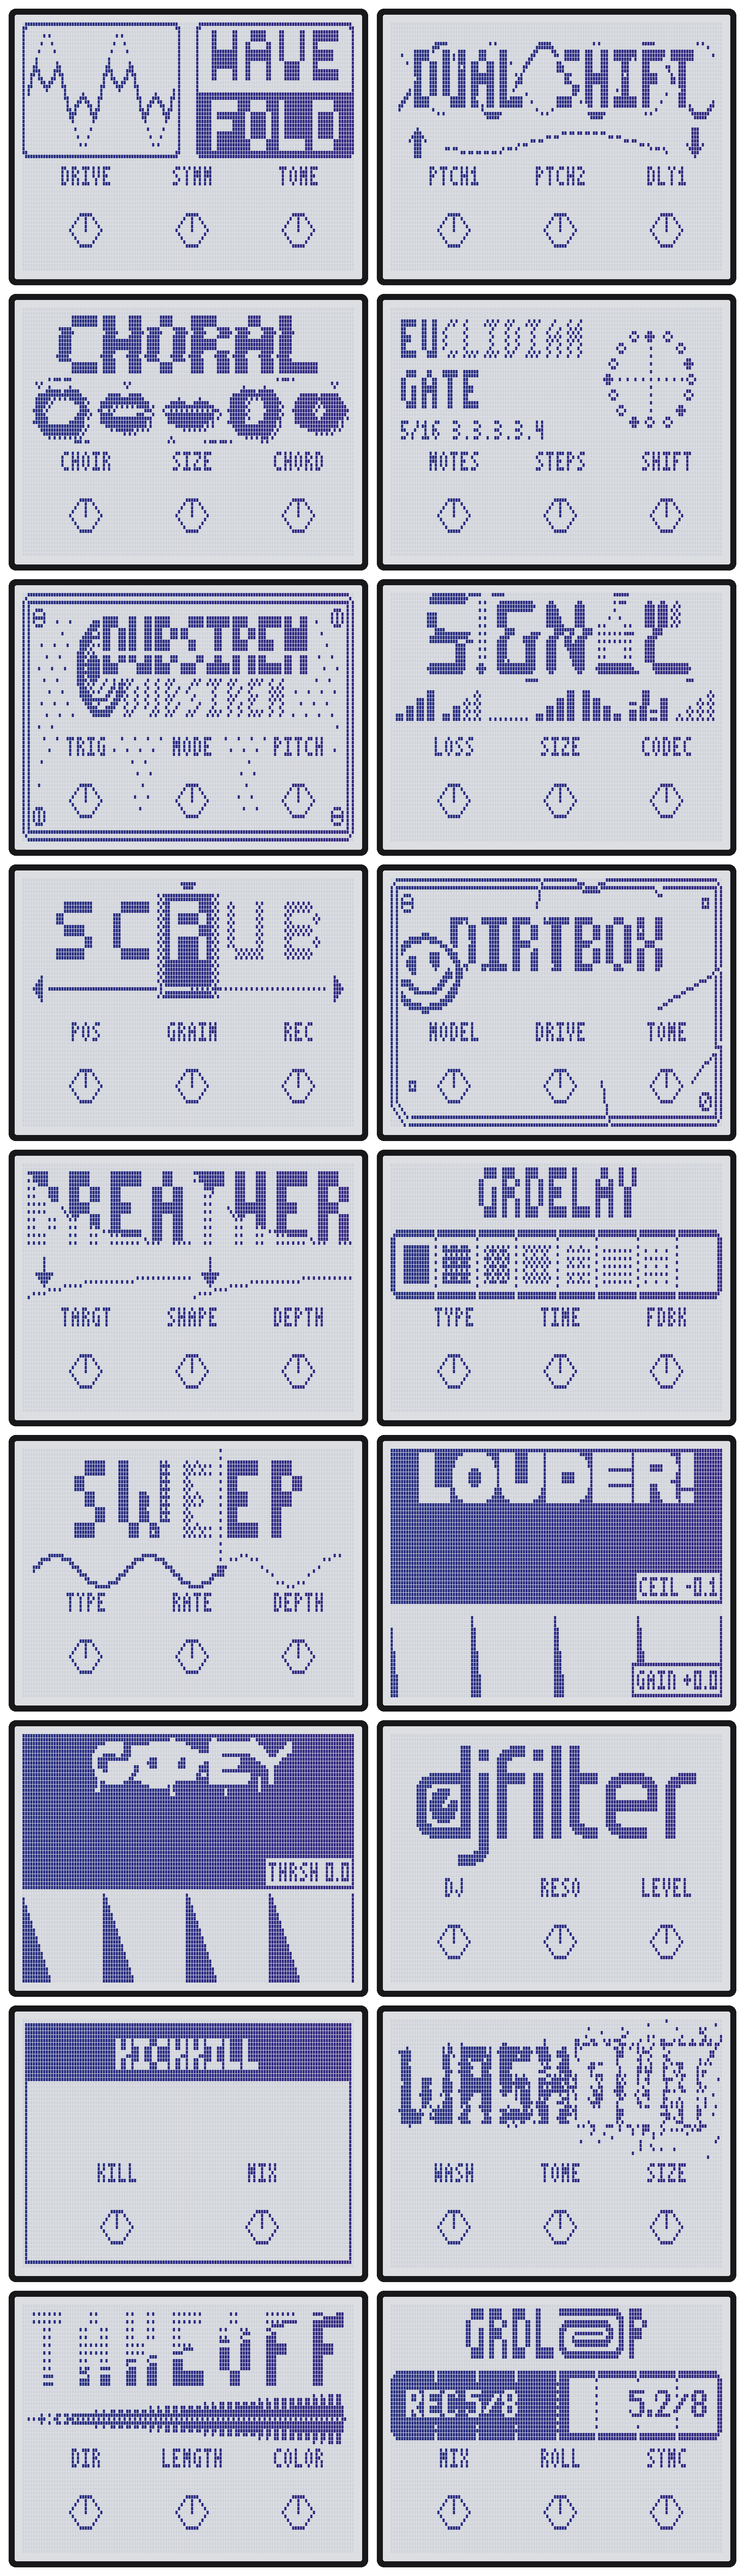
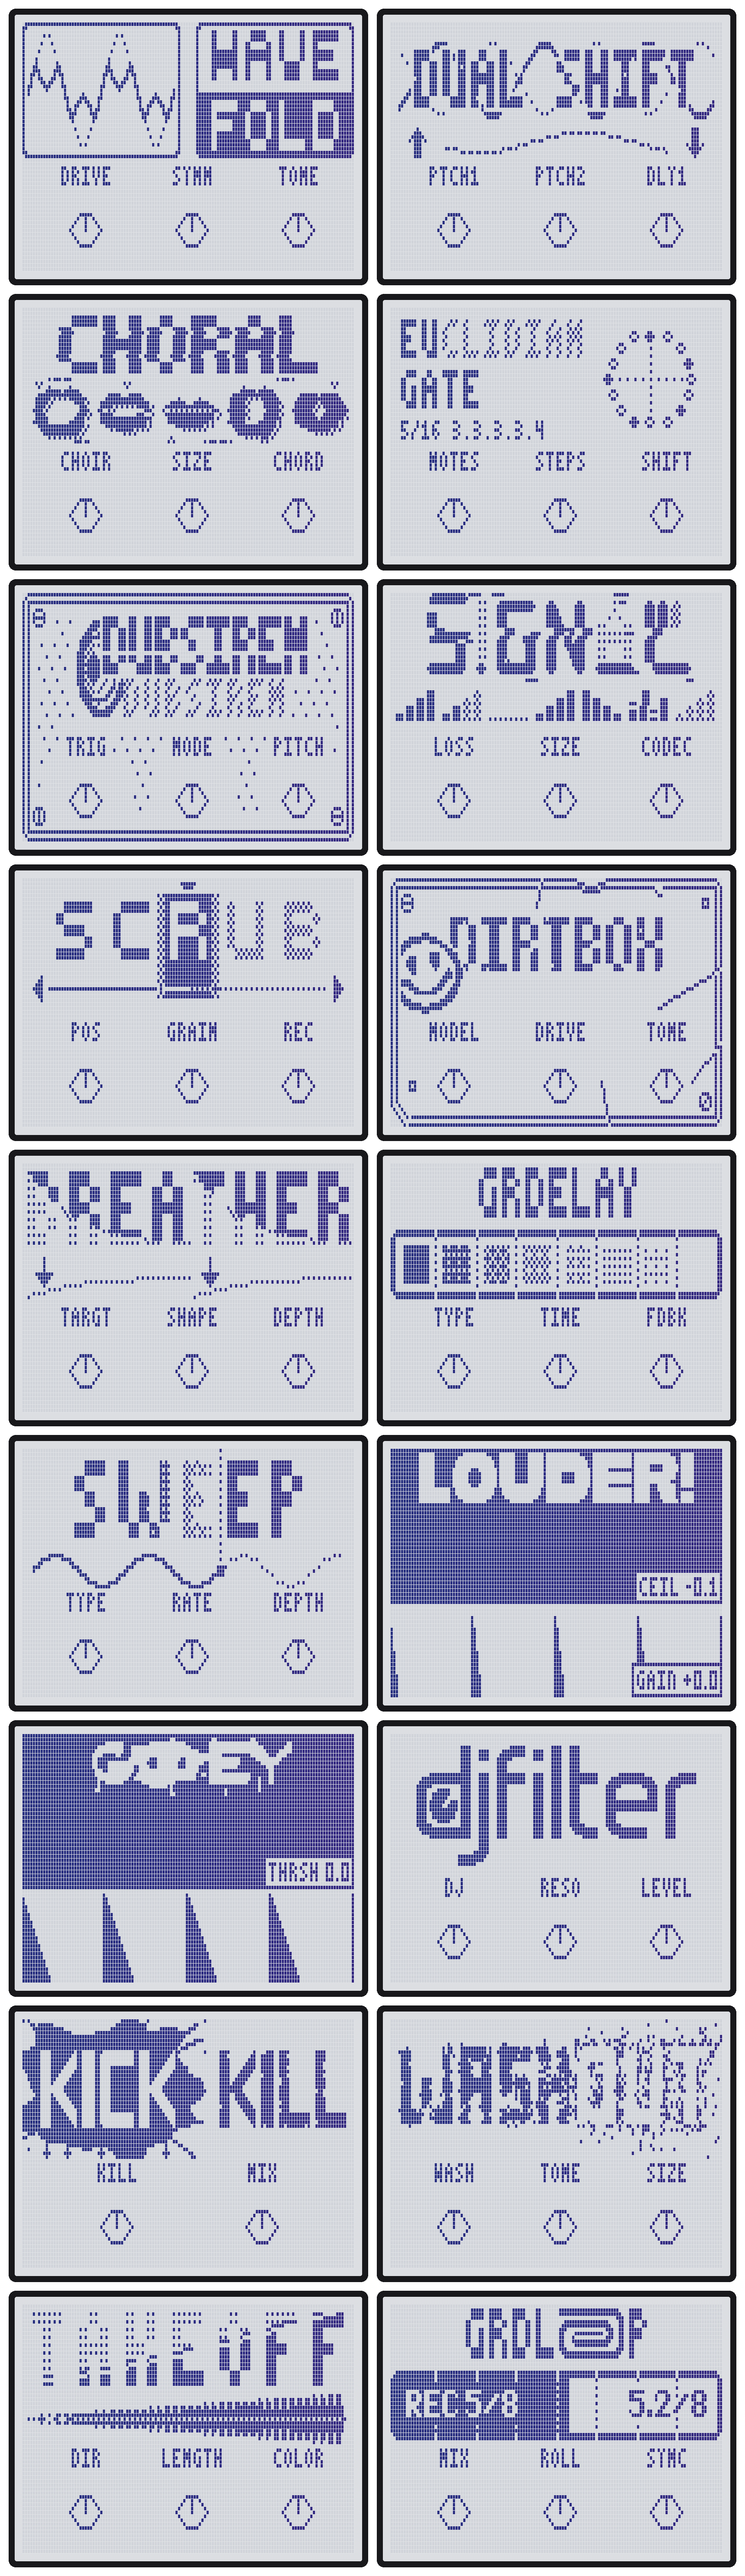
KickKill cover: KICK cut out of a blood splat, KILL in Washout's block letters

Changed region(s): [[0.0307, 0.7802, 0.4919, 0.8426]]

diff --git a/src/custom/kickkill/make_cover.py b/src/custom/kickkill/make_cover.py
@@ -1,0 +1,110 @@
+"""Generate src/airwindows/common/covers/KickKill.json (128x64 cover override).
+
+KICK KILL in Washout's style (the pack's square block font, edges lightly worn): KICK is cut
+out (negative) of a splat of blood with spikes, drips and droplets; KILL solid with worn
+edges. Seeded, so every run draws the same picture. Knob row: custom_covers._draw_knob_row.
+
+Run from anywhere:  py src/custom/kickkill/make_cover.py
+The build (custom_covers.make_cover) picks the JSON up automatically.
+Also writes cover_preview.png next to this script (LCD look, build/lcd_render.py).
+"""
+import json, math, random, sys
+from pathlib import Path
+
+ROOT = Path(__file__).resolve().parents[3]        # src/custom/kickkill/make_cover.py -> repo root
+sys.path.insert(0, str(ROOT / "build"))
+sys.path.insert(0, str(ROOT / "src" / "airwindows" / "common"))
+from screen_image import Canvas
+import custom_covers as cc
+
+NAME = "KickKill"
+LABELS = ['Kill', 'Mix']
+ART_H = 36                                        # rows 0..35; the knob labels start at 37
+TOP, H, ST = 8, 20, 4                             # letter top row, height, stroke
+
+
+def glyph(ch):
+    """Pixels (x, y) of one block letter at the origin; returns (pixels, width)."""
+    p = set()
+    def box(x0, y0, x1, y1):
+        p.update((x, y) for x in range(x0, x1 + 1) for y in range(y0, y1 + 1))
+    if ch == 'I':
+        box(0, 0, ST, H - 1); return p, ST + 1
+    if ch == 'L':
+        box(0, 0, ST - 1, H - 1); box(0, H - ST, 11, H - 1); return p, 12
+    if ch == 'C':
+        box(0, 1, ST - 1, H - 2); box(1, 0, 12, ST - 1); box(1, H - ST, 12, H - 1); return p, 13
+    if ch == 'K':
+        box(0, 0, ST - 1, H - 1)
+        for y in range(H):                        # arm up-right, leg down-right, meeting at the middle
+            x = 4 + round(abs(y - (H - 1) / 2) * 9 / ((H - 1) / 2))
+            box(x, y, min(x + ST, 13), y)
+        return p, 14
+    raise ValueError(ch)
+
+
+def word(text, x0):
+    out = set()
+    for ch in text:
+        p, w = glyph(ch)
+        out.update((x0 + x, TOP + y) for x, y in p)
+        x0 += w + 2
+    return out, x0 - 2
+
+
+def build():
+    rnd = random.Random(503)
+    c = Canvas()
+    ink = set()
+    # the splat: a boxy blob with a ragged rim around KICK
+    cx, cy, rx, ry = 33.0, 17.5, 34.0, 16.5
+    ph = [rnd.uniform(0, 6.3) for _ in range(3)]
+    for y in range(ART_H):
+        for x in range(0, 70):
+            dx, dy = (x - cx) / rx, (y - cy) / ry
+            a = math.atan2(dy, dx)
+            rim = 1.0 + 0.10 * math.sin(5 * a + ph[0]) + 0.07 * math.sin(9 * a + ph[1]) + 0.05 * math.sin(14 * a + ph[2])
+            if abs(dx) ** 3 + abs(dy) ** 3 <= rim ** 3 * (1.0 - rnd.uniform(0, 0.06)):
+                ink.add((x, y))
+    # spikes thrown out of the rim, a droplet at each end
+    for _ in range(11):
+        a = rnd.uniform(0, 2 * math.pi)
+        r0, r1 = 0.9, rnd.uniform(1.15, 1.45)
+        for t in range(40):
+            r = r0 + (r1 - r0) * t / 39
+            ink.add((round(cx + math.cos(a) * rx * r), round(cy + math.sin(a) * ry * r)))
+        ex, ey = round(cx + math.cos(a) * rx * (r1 + 0.12)), round(cy + math.sin(a) * ry * (r1 + 0.12))
+        ink.update((ex + i, ey + j) for i in (0, 1) for j in (0, 1))
+    # drips running down from the bottom rim
+    for x in (9, 17, 30, 44, 55):
+        y = max(yy for (xx, yy) in ink if xx == x and yy < 33)
+        end = min(ART_H - 2, y + rnd.randint(2, 5))
+        ink.update((x, yy) for yy in range(y, end + 1))
+        ink.update(((x - 1, end), (x + 1, end), (x, end + 1)))
+    # loose droplets
+    for _ in range(14):
+        x, y = rnd.randint(0, 70), rnd.randint(0, ART_H - 1)
+        ink.add((x, y))
+    ink = {(x, y) for (x, y) in ink if x <= 70}  # keep the blood clear of KILL
+    # KICK cut out of the blood (negative), KILL solid with worn edges
+    kick, _ = word("KICK", 7)
+    ink -= kick
+    kill, end = word("KILL", 76)
+    for (x, y) in kill:
+        edge = any((x + i, y + j) not in kill for i, j in ((1, 0), (-1, 0), (0, 1), (0, -1)))
+        if not (edge and rnd.random() < 0.12):
+            ink.add((x, y))
+    for (x, y) in ink:
+        if 0 <= x < 128 and 0 <= y < ART_H:
+            c.px(x, y)
+    cc._draw_knob_row(c, LABELS)
+    return c
+
+
+if __name__ == "__main__":
+    c = build()
+    out = ROOT / "src" / "airwindows" / "common" / "covers" / (NAME + ".json")
+    out.write_text(json.dumps({"name": NAME, "w": 128, "h": 64, "grid": c.pixels}))
+    from lcd_render import save_png
+    save_png(c.pixels, Path(__file__).resolve().parent / "cover_preview.png")
+    print("wrote", out)
